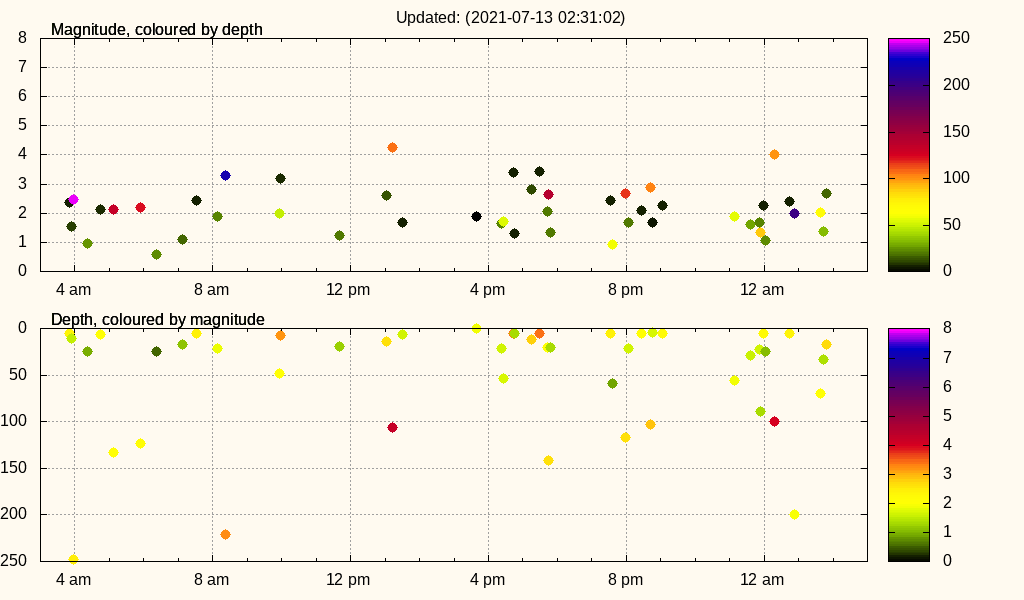
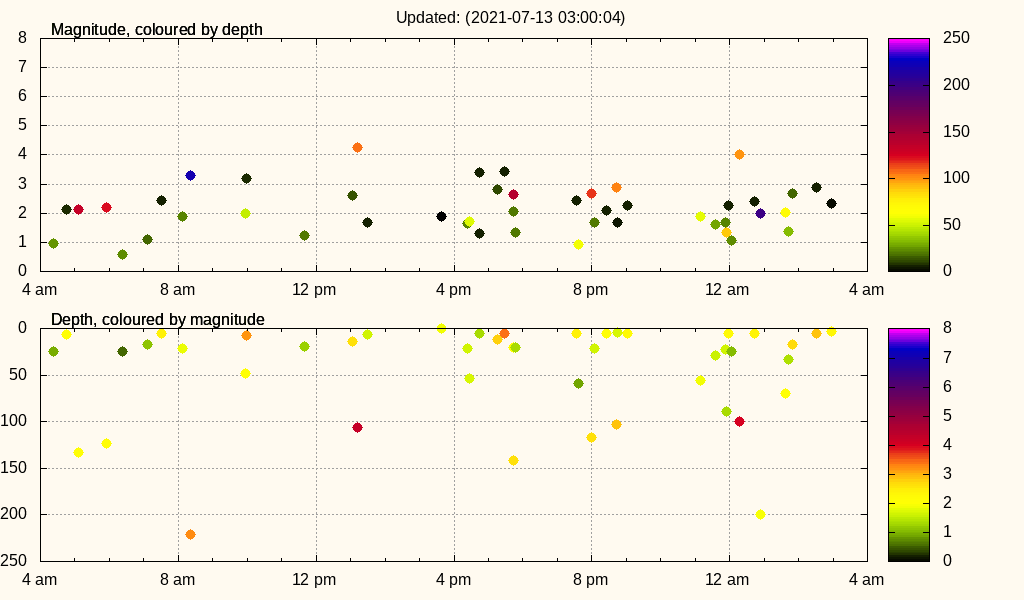
Snapshot

diff --git a/image.html b/image.html
@@ -38,9 +38,9 @@ td.border { border: 1px #330000 dashed; }
 <center>[ &lt;<a href="index.html" title="Main">Main</a>&gt; | &lt;<a href="image.html" title="Here">Re-load</a>&gt; ]</center>
 <dl><dt>All images on this page are in 2 parts:</dt> <dd>The upper part displays magnitude, coloured by depth.</dd> <dd>The lower part displays depth, coloured by magnitude.</dd></dl>
 <table summary="">
-<tr><td class="border"><table summary=""><tr><th align="left">Period</th> <td>:</td> <td>1 week</td></tr> <tr><td>Creation date</td> <td>:</td> <td>2021-07-13 02:31:02</td></tr></table> <a href="depth-magnitude-multiplot_week_0001.png" title="1 week" target="_blank"><img src="depth-magnitude-multiplot_week_0001.png" alt="1 week" title="1 week" /></a></td></tr>
-<tr><td class="border"><table summary=""><tr><th align="left">Period</th> <td>:</td> <td>2 weeks</td></tr> <tr><td>Creation date</td> <td>:</td> <td>2021-07-13 02:31:03</td></tr></table> <a href="depth-magnitude-multiplot_week_0002.png" title="2 weeks" target="_blank"><img src="depth-magnitude-multiplot_week_0002.png" alt="2 weeks" title="2 weeks" /></a></td></tr>
-<tr><td class="border"><table summary=""><tr><th align="left">Period</th> <td>:</td> <td>4 weeks</td></tr> <tr><td>Creation date</td> <td>:</td> <td>2021-07-13 02:31:03</td></tr></table> <a href="depth-magnitude-multiplot_week_0004.png" title="4 weeks" target="_blank"><img src="depth-magnitude-multiplot_week_0004.png" alt="4 weeks" title="4 weeks" /></a></td></tr>
+<tr><td class="border"><table summary=""><tr><th align="left">Period</th> <td>:</td> <td>1 week</td></tr> <tr><td>Creation date</td> <td>:</td> <td>2021-07-13 03:00:04</td></tr></table> <a href="depth-magnitude-multiplot_week_0001.png" title="1 week" target="_blank"><img src="depth-magnitude-multiplot_week_0001.png" alt="1 week" title="1 week" /></a></td></tr>
+<tr><td class="border"><table summary=""><tr><th align="left">Period</th> <td>:</td> <td>2 weeks</td></tr> <tr><td>Creation date</td> <td>:</td> <td>2021-07-13 03:00:05</td></tr></table> <a href="depth-magnitude-multiplot_week_0002.png" title="2 weeks" target="_blank"><img src="depth-magnitude-multiplot_week_0002.png" alt="2 weeks" title="2 weeks" /></a></td></tr>
+<tr><td class="border"><table summary=""><tr><th align="left">Period</th> <td>:</td> <td>4 weeks</td></tr> <tr><td>Creation date</td> <td>:</td> <td>2021-07-13 03:00:05</td></tr></table> <a href="depth-magnitude-multiplot_week_0004.png" title="4 weeks" target="_blank"><img src="depth-magnitude-multiplot_week_0004.png" alt="4 weeks" title="4 weeks" /></a></td></tr>
 </table>
 <center>[ &lt;<a href="index.html" title="Main">Main</a>&gt; | &lt;<a href="image.html" title="Here">Re-load</a>&gt; ]</center>
 <div class="ack">

diff --git a/index.html b/index.html
@@ -65,12 +65,28 @@ td.depth { text-align: right; }
 </tr>
 <tr>
 	 <td align="left">&nbsp;</td> 
-	 <td align="left">02:31:01 am</td> 
-	 <td align="right">41:47</td> 
+	 <td align="left">03:00:03 am</td> 
+	 <td align="right">2:02</td> 
 	 <td colspan="3">&nbsp;</td> 
 </tr>
 <tr>
 	 <td align="left">2021-07-13</td> 
+	 <td align="left">02:58:01 am</td> 
+	 <td align="right">26:33</td> 
+	 <td class="magnitude05">2.34</td> 
+	 <td class="depth">2.98</td> 
+	 <td align="right"><a href="http://www.geonet.org.nz/quakes/region/newzealand/2021p520604" title="2021p520604" target="_blank" class="publicid">40 km north-east of Mount Cook</a></td> 
+</tr>
+<tr>
+	 <td align="left">&nbsp;</td> 
+	 <td align="left">02:31:28 am</td> 
+	 <td align="right">42:14</td> 
+	 <td class="magnitude06">2.89</td> 
+	 <td class="depth">5.29</td> 
+	 <td align="right"><a href="http://www.geonet.org.nz/quakes/region/newzealand/2021p520554" title="2021p520554" target="_blank" class="publicid">20 km east of Hanmer Springs</a></td> 
+</tr>
+<tr>
+	 <td align="left">&nbsp;</td> 
 	 <td align="left">01:49:14 am</td> 
 	 <td align="right">6:00</td> 
 	 <td class="magnitude06">2.68</td> 
